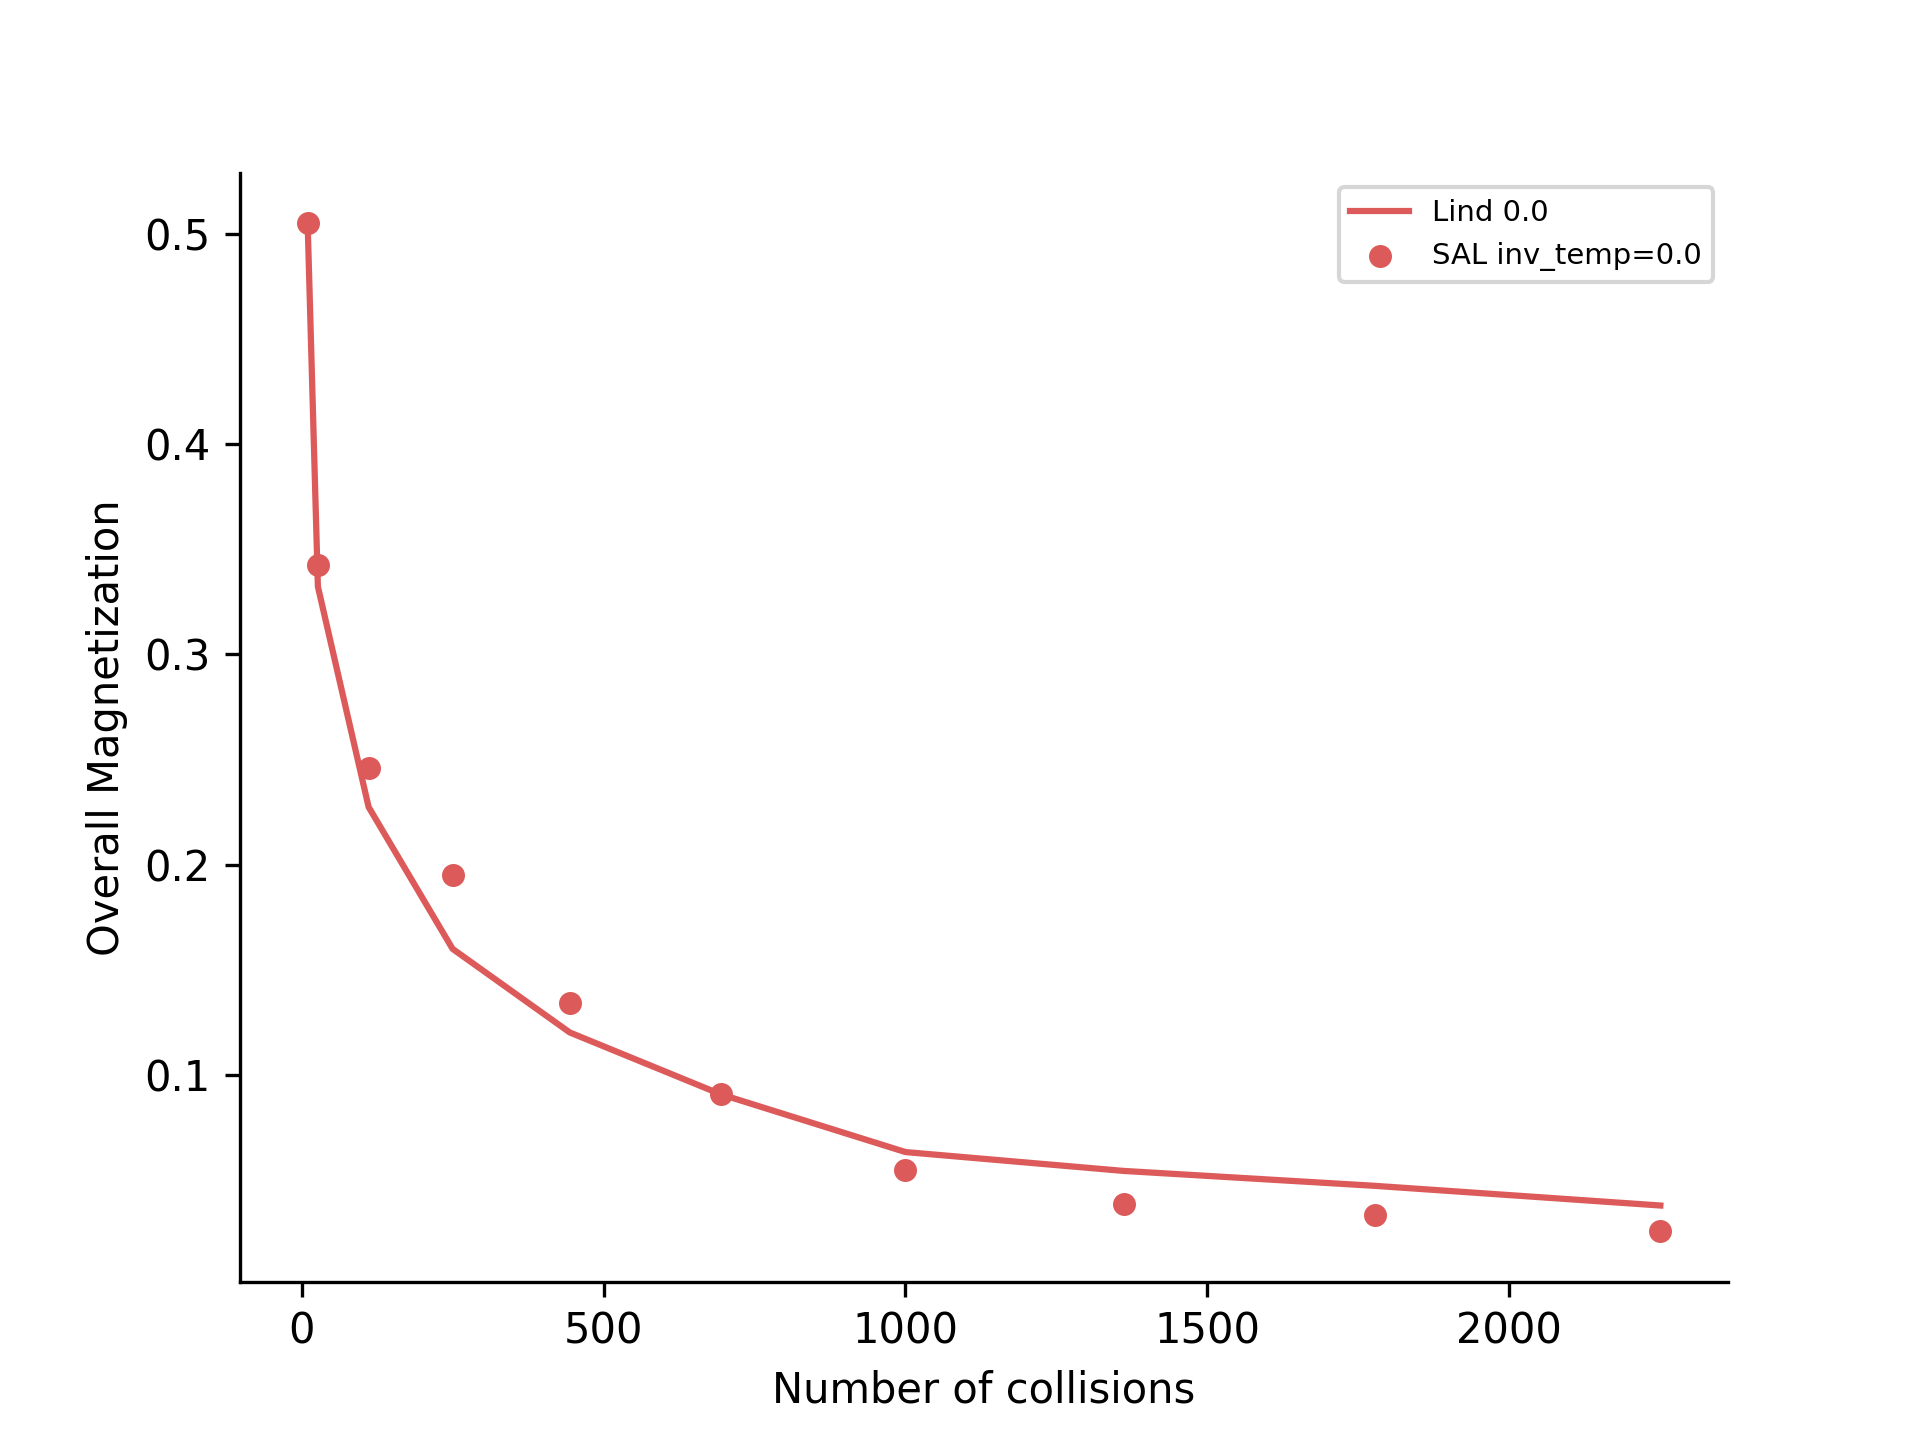
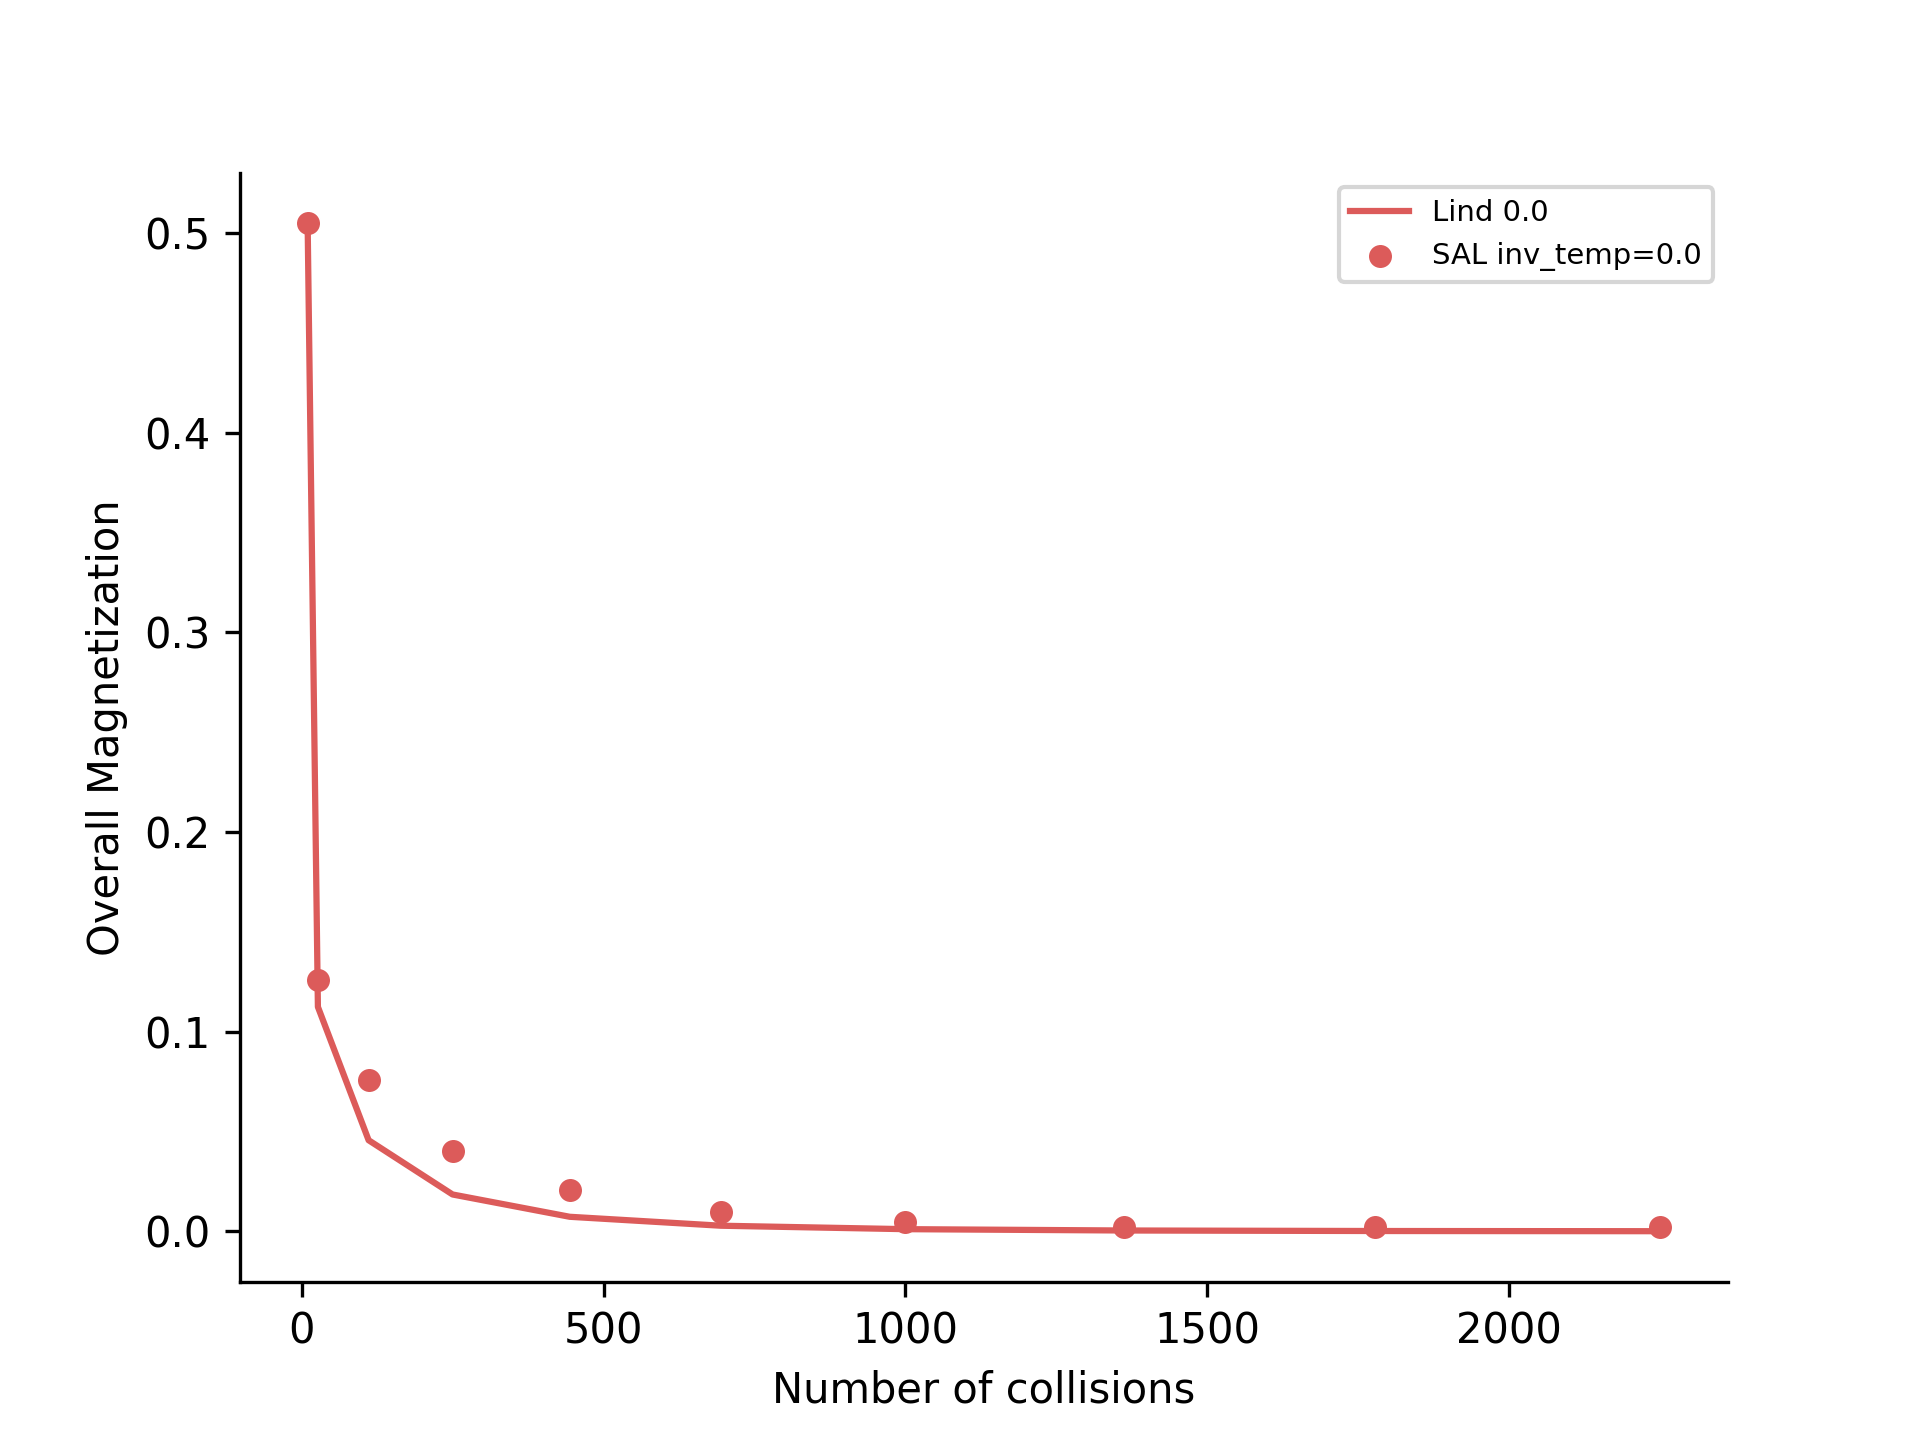
Gamma 0.5

diff --git a/ising/nonmarkovian/swap/distance.py b/ising/nonmarkovian/swap/distance.py
@@ -25,7 +25,7 @@ def calculate_gamma(beta):
 
 
 QUBIT_COUNT = 4
-GAMMA = 1
+GAMMA = 0.1
 PS_COUNT = 5
 PS_STRENGTHS = np.linspace(np.pi/3, np.pi/2, PS_COUNT)
 PS_STRENGTHS = [np.pi/2 - 0.1]
